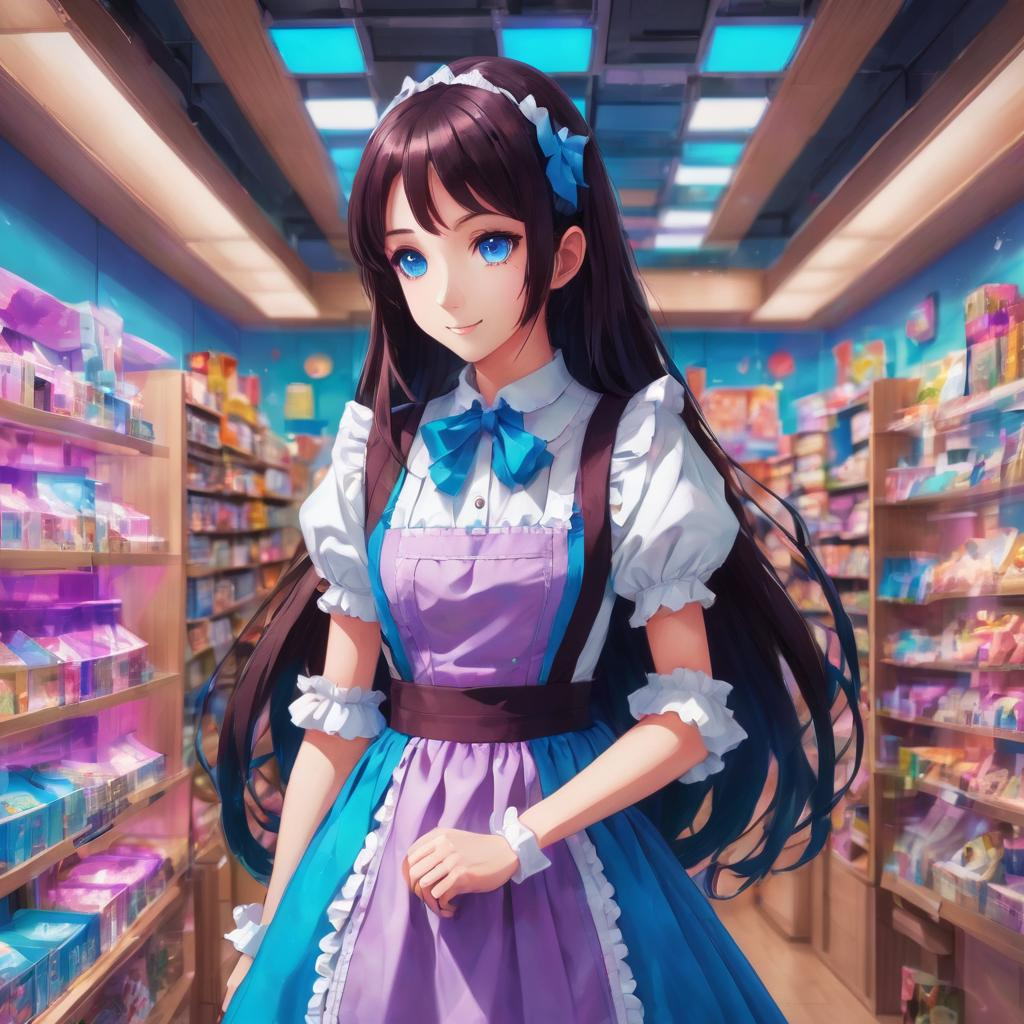
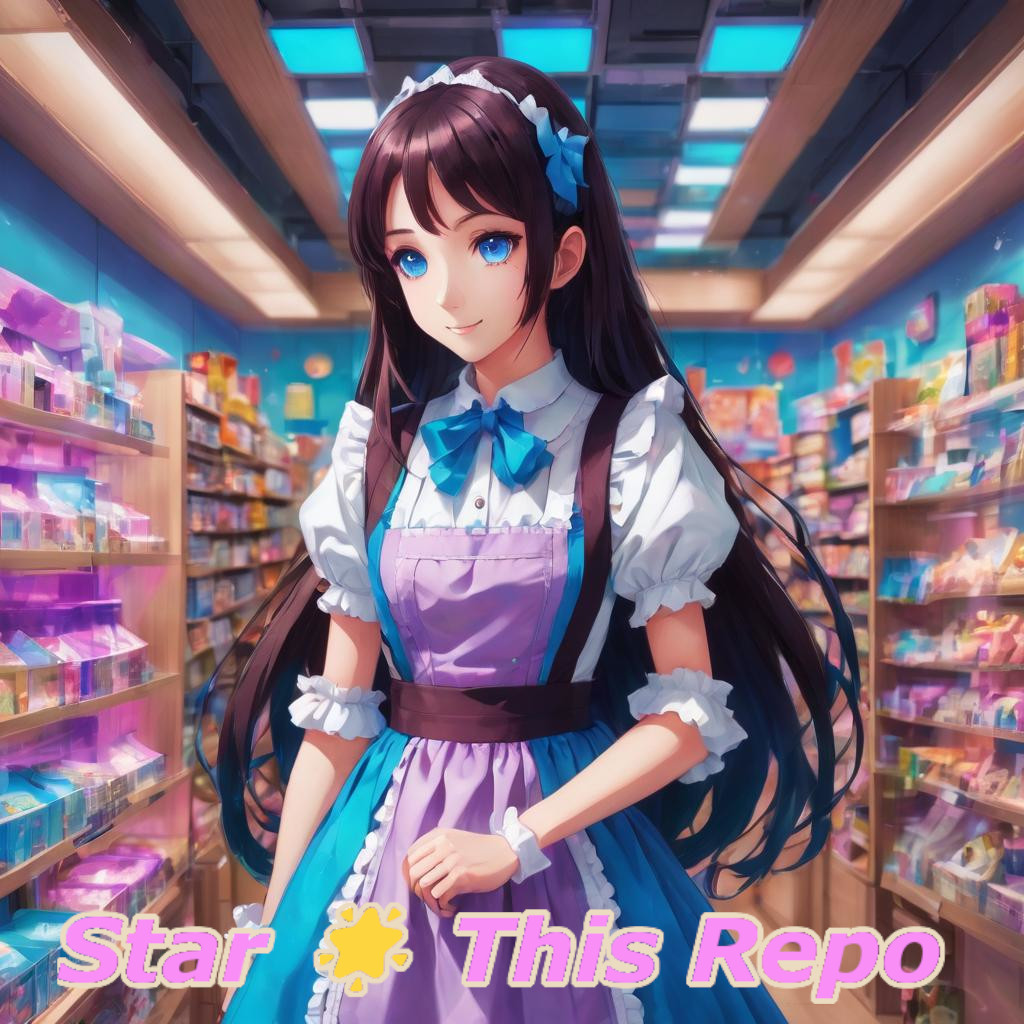
:herb: Improved README and added few images. :herb:

Changed region(s): [[0.4375, 0.875, 0.9375, 1.0], [0.0312, 0.875, 0.2812, 0.9688], [0.3125, 0.875, 0.4062, 0.9688]]

diff --git a/README.md b/README.md
@@ -8,7 +8,7 @@ Hey there, traveler! ✨ I'm **Hoshiko** (星子), your adorable guide! I'm here
 This repository hosts a Flask-powered backend that dynamically updates an anime image every 5 minutes! It fights against **aggressive caching** and ensures a fresh image is always displayed. No more stale waifus! 🎀
 
 ## 💡 Features
-- 🖼 **Dynamic Anime Image Updates** every 5 minutes! ⏳
+- 🖼 **Dynamic Anime Image Updates** everyday! ⏳
 - 🛡 **Cache-Busting Techniques** to prevent outdated images! 🔥
 - 🌎 **Vercel Deployment Support** for an easy cloud setup! ☁
 - 🐍 **Flask Backend** for smooth and efficient image serving! 💨
@@ -18,7 +18,7 @@ Follow these steps, and I'll make sure everything runs smoothly for you! 🥰
 
 ### 1⃣ Clone the Repo
 ```bash
-git clone https://github.com/yourusername/hoshiko-image-updater.git
+git clone https://github.com/rakinplaban/photo-store-repo.git
 cd hoshiko-image-updater
 ```
 
@@ -77,7 +77,8 @@ _"Thank you for visiting! I hope this repo brings you lots of happiness and cool
 
 ---
 
-**💖 [Star 🌟 This Repo](https://github.com/yourusername/hoshiko-image-updater) if you love anime magic!** ✨
+**💖 [Star 🌟 This Repo](https://github.com/rakinplaban/photo-store-repo) if you love anime magic!** ✨
+
 
 ![AnimeGirls](https://animemagic.vercel.app/anime-image?t=123456)
 
